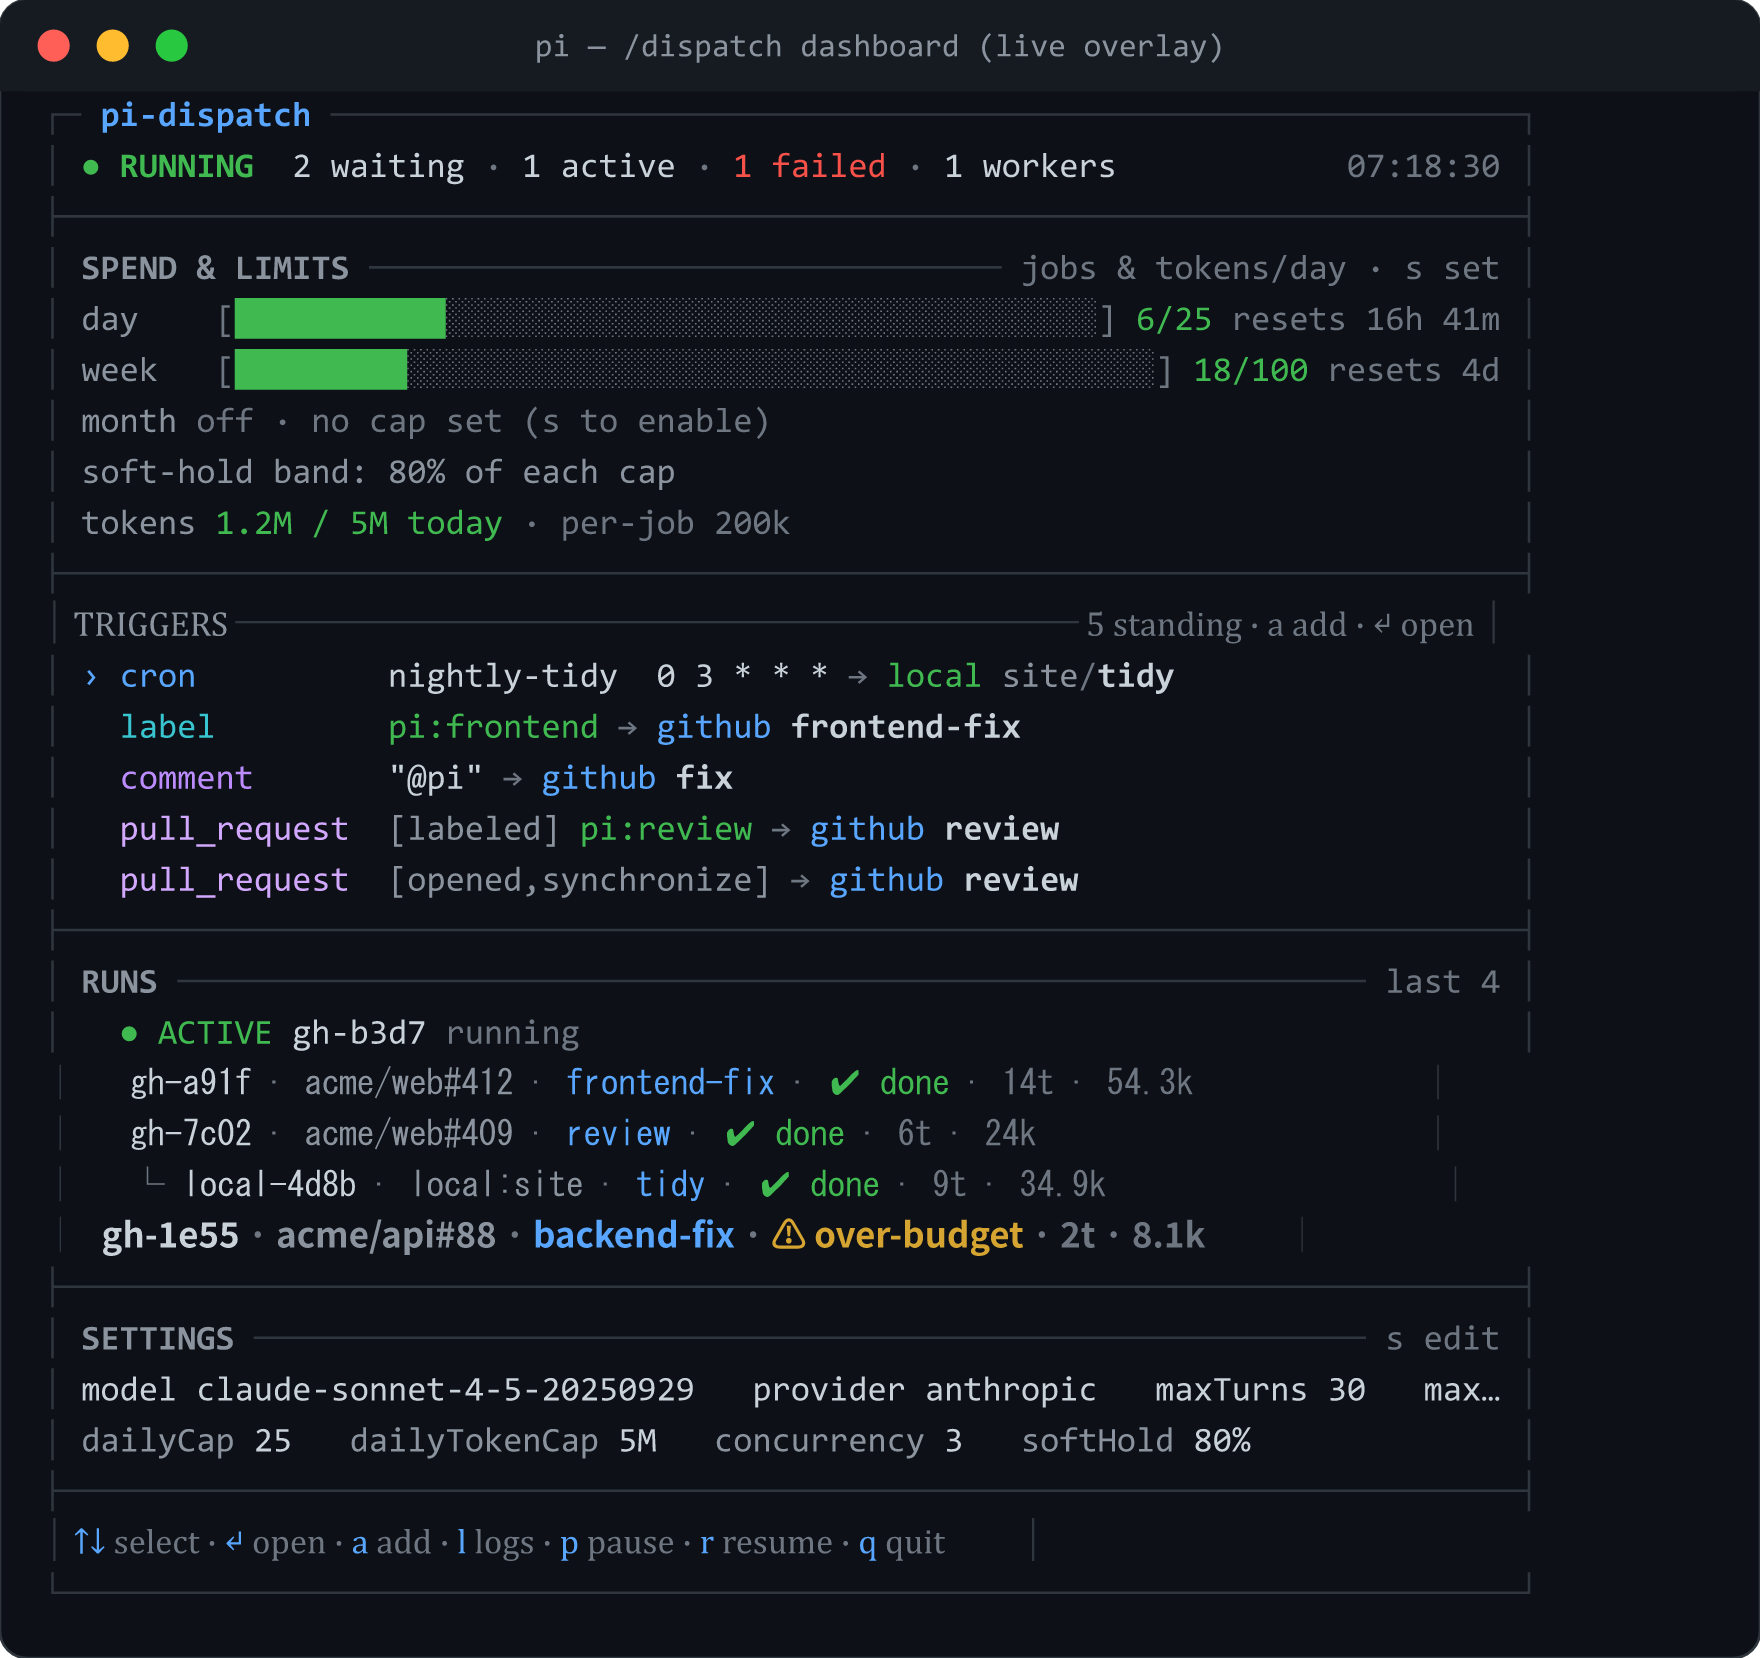
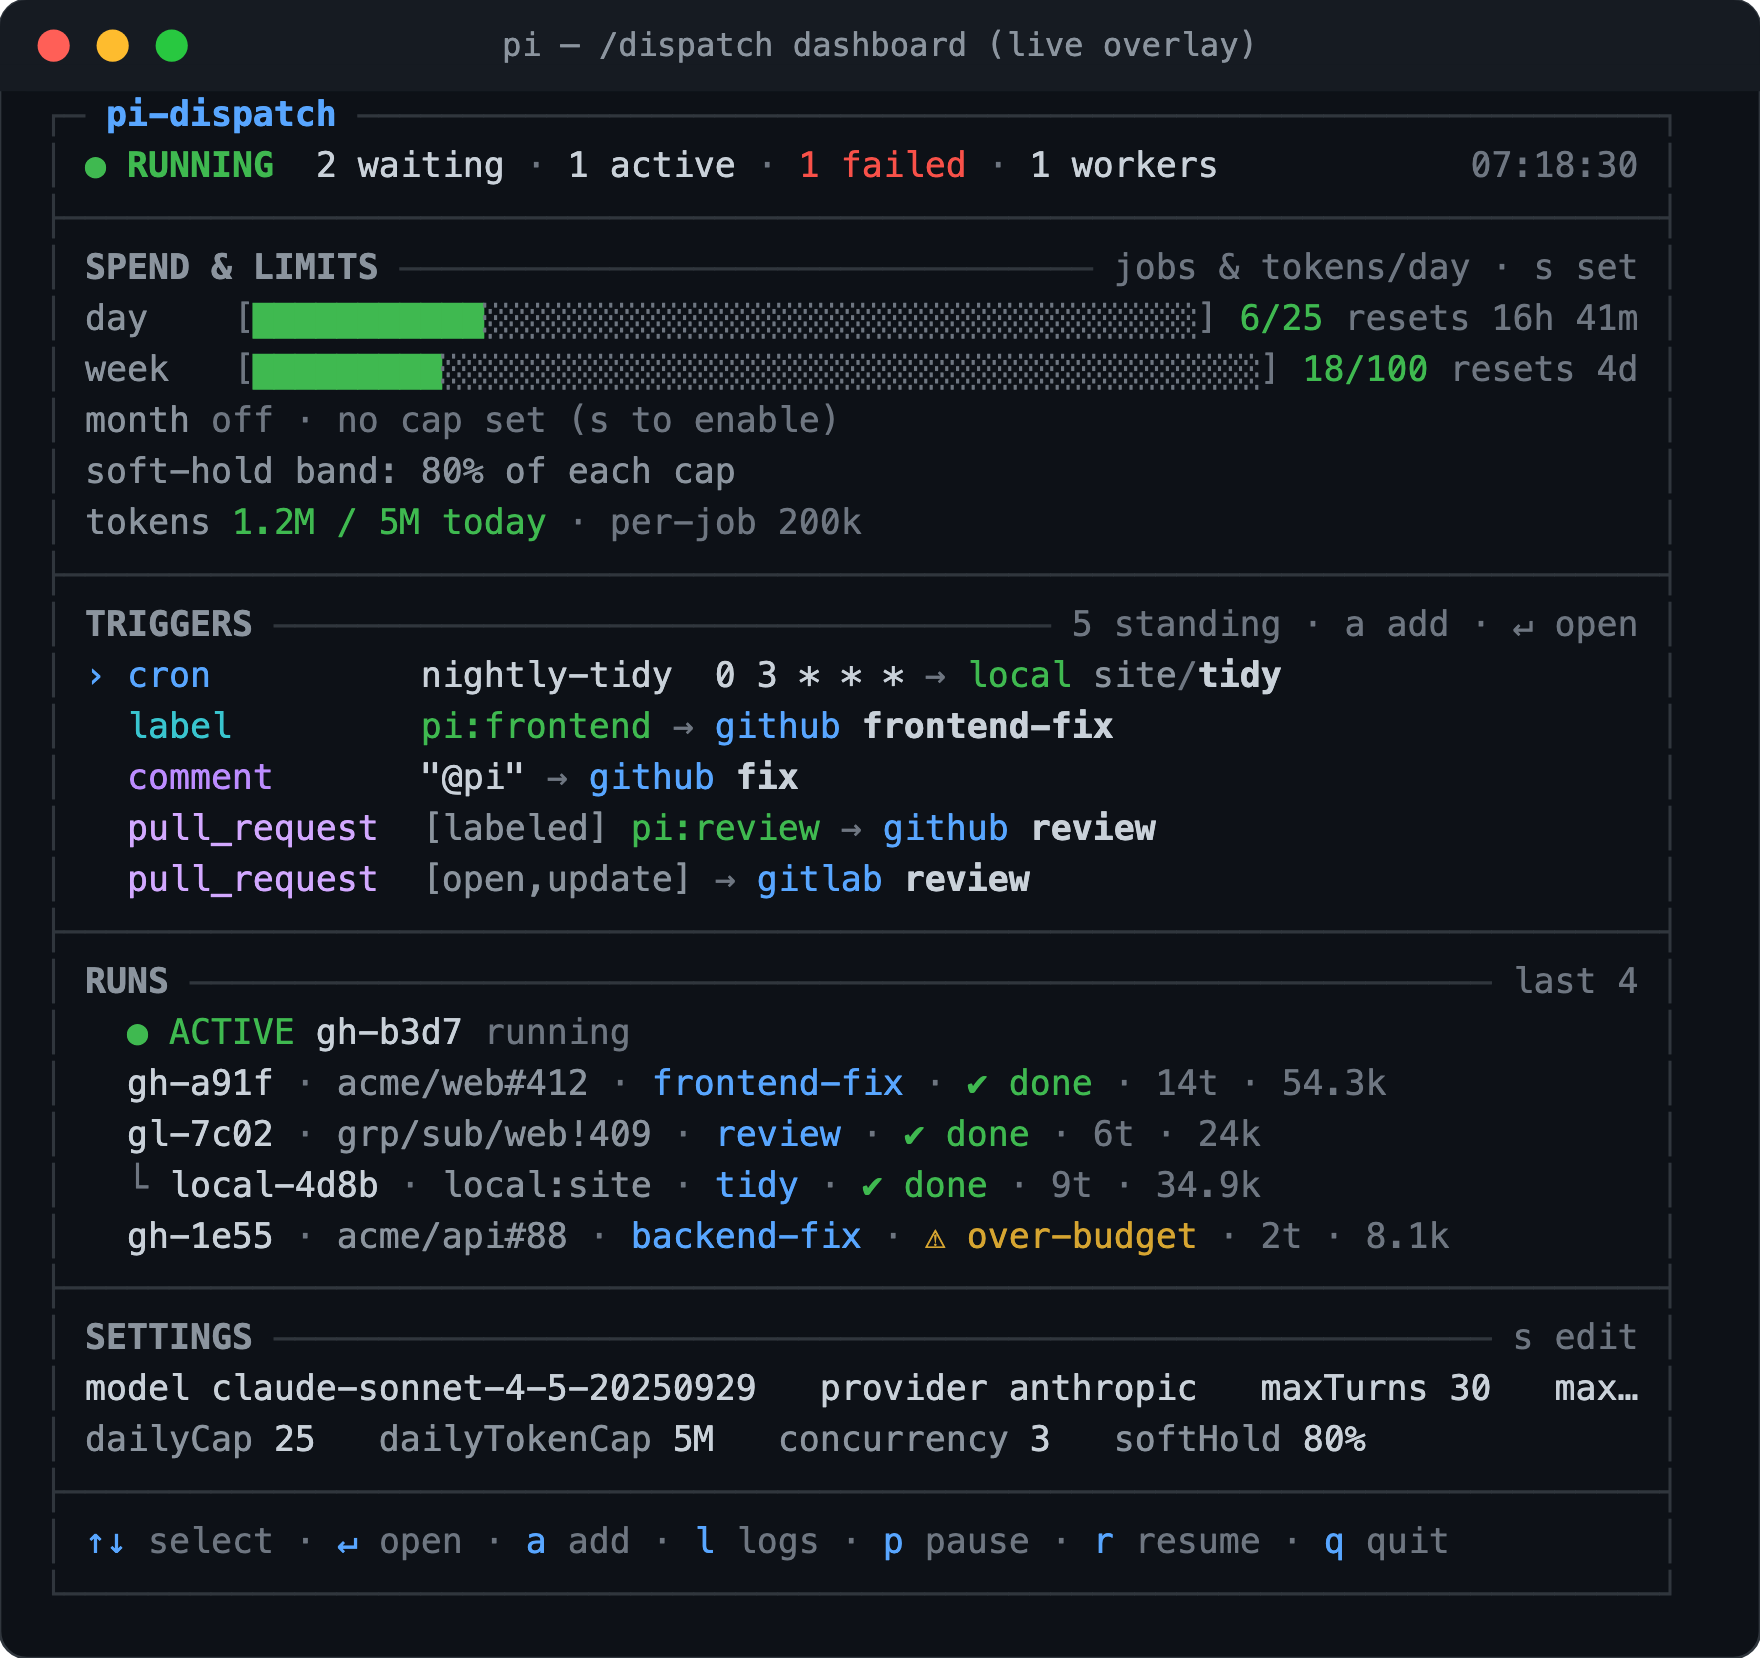
docs: self-hosted GitLab, and images that show a forge other than GitHub
Self-hosted already worked -- GITLAB_URL is threaded through the receiver's
verification and member lookup, the worker's API calls and clone URL, and
GITLAB_HOST inside the container so glab talks to the right instance. What did
not work was finding out why it had not.

Tested against a real self-signed HTTPS server rather than reasoned about: Node's
fetch rejects with the bare string "fetch failed" and hides the reason in
err.cause, so the single commonest self-hosted misconfiguration -- a private CA
the host does not trust -- reported nothing an operator could act on. The three
GitLab fetch sites now unwrap the cause chain, and the same failure reads
"fetch failed: self-signed certificate", which names its own fix. The unwrapper
is depth-bounded and dedupes, so a cyclic cause cannot hang the caller.

docs/gitlab.md gains a Self-hosted section stating the two things worth knowing
before pointing this at a private instance: a private CA has to be trusted in
TWO places (NODE_EXTRA_CA_CERTS for the host processes, the cert baked into the
job image for git and glab, which are a separate trust store), and redirects are
refused rather than followed -- a redirect is somewhere to send a credential,
and following one is how a token reaches a host nobody named. Plain http is
documented as working and as sending the token in the clear, rather than left to
be discovered.

Images: the banner said "on demand, on a cron, or on a GitHub issue" and its
[…]

diff --git a/docs/gitlab.md b/docs/gitlab.md
@@ -64,6 +64,42 @@ pick the weaker one.
 
 **4. Check it.** `pi-dispatch doctor` reports whether the token is set when your triggers name GitLab.
 
+## Self-hosted instances
+
+Set `GITLAB_URL` to your instance root and everything follows it — the receiver's verification and member
+lookup, the worker's API calls and clone URL, and `GITLAB_HOST` inside the job container so `glab` talks to
+your instance rather than gitlab.com. Nothing is hardcoded to gitlab.com; that value is only the default.
+
+```bash
+GITLAB_URL=https://gitlab.internal.example.com
+```
+
+Two things are worth knowing before you point it at a private instance.
+
+**A private CA needs to be trusted, in two places.** The worker and receiver run on the host, so a CA that
+your OS trusts is not automatically one Node trusts:
+
+```bash
+NODE_EXTRA_CA_CERTS=/etc/ssl/certs/your-internal-ca.pem
+```
+
+Without it, every call fails and the log names the reason — `fetch failed: self-signed certificate`, or
+`unable to verify the first certificate`. That message is the diagnosis; if you see it, this is what it
+means.
+
+The **job container** is a separate trust store: `git clone` and `glab` run inside it, so the CA has to be
+in the image. Add it to your own image (`docs/job-image.md`) — a `COPY` of the cert into
+`/usr/local/share/ca-certificates/` plus `update-ca-certificates`. The stock image trusts only the public
+roots.
+
+**Redirects are refused, not followed.** If `GITLAB_URL` is `http://…` and your instance redirects to
+HTTPS, calls fail rather than silently following — a redirect is somewhere to send a credential, and
+following one is how a token ends up at a host you did not name. Set `GITLAB_URL` to the final URL.
+
+Plain `http://` does work if that is genuinely what you run. It sends the token in the clear on every API
+call and every clone, so it is only reasonable on a trusted network, and it is not what the isolation
+model assumes elsewhere.
+
 ## Minimum GitLab version: 17.4
 
 pi-dispatch dedups redeliveries on GitLab's own `webhook-id` (called `Idempotency-Key` before 19.0), which

diff --git a/README.md b/README.md
@@ -543,6 +543,10 @@ Three things differ from the GitHub arm, and each is a correctness matter rather
 - **GitLab 17.4 or later.** Dedup uses GitLab's own retry-stable delivery id. An older instance is refused
   with a clear 400 rather than run on a key that would only half-dedup.
 
+**Self-hosted works** — set `GITLAB_URL` and everything follows it, including `GITLAB_HOST` inside the job
+container. A private CA needs `NODE_EXTRA_CA_CERTS` on the host and the cert in your job image; a
+certificate failure names itself in the log rather than reporting a bare "fetch failed".
+
 Full setup, the `api`-scope trade-off, and what is not supported: [`docs/gitlab.md`](docs/gitlab.md).
 
 ## How it compares
